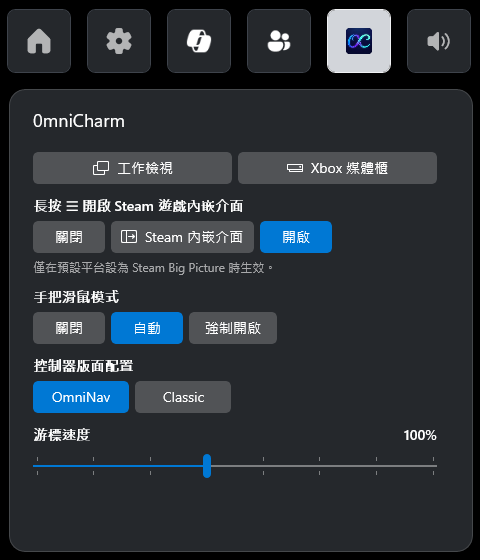
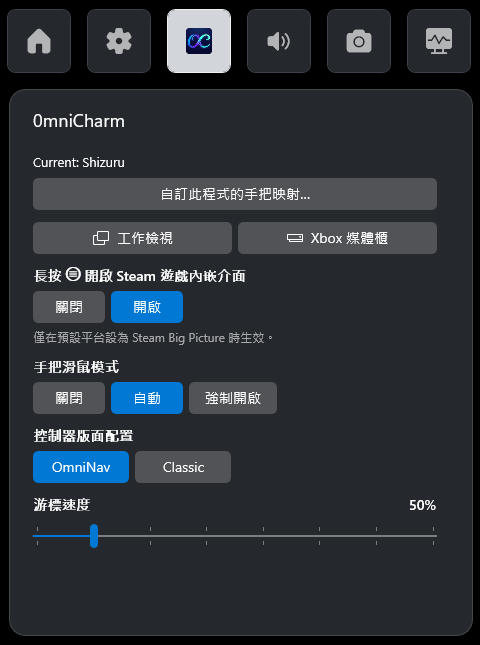
chore: Bump site version to 0.5.0, add Nekomata feature, refine terminology and troubleshooting details

Changed region(s): [[0.0, 0.0, 1.0, 0.7893], [0.0625, 0.7893, 0.9062, 0.85], [0.8438, 0.7589, 0.9062, 0.7893]]

diff --git a/src/pages/docs/troubleshooting.md b/src/pages/docs/troubleshooting.md
@@ -1,20 +1,20 @@
 ---
 layout: ../../layouts/DocsLayout.astro
 title: Troubleshooting
-description: Recover from FSE issues on Windows 11.
+description: Recover from Xbox Mode (FSE) issues on Windows 11.
 ---
 
-## FSE entry dialog does not appear
+## Xbox Mode (FSE) entry dialog does not appear
 
-On some Windows builds the FSE entry dialog ("Restart for better performance") fails to appear. OmniConsole provides an emergency bypass:
+On some Windows builds the "Restart for better performance" dialog fails to appear when entering Xbox Mode (FSE). OmniConsole provides a recovery action:
 
 1. Open **OmniConsole Settings** from the Start Menu.
 2. Switch to the **Troubleshoot** tab in the left menu.
-3. Next to **Terminate Game Bar & Enter FSE**, click **Run**. This force-closes Game Bar and enters FSE directly, bypassing the confirmation dialog. Some Windows builds may still show a confirmation dialog.
+3. Next to **Restart Game Bar & Enter Xbox Mode (FSE)**, click **Run**. This restarts Game Bar and enters Xbox Mode (FSE); once Game Bar is restarted, the dialog appears as expected.
 
 ## OmniConsole does not launch my platform
 
-1. Confirm OmniConsole is set as the **FSE Home App** in **Settings → Gaming → Full Screen Experience**.
+1. Confirm OmniConsole is set as the **Xbox Mode (FSE) Home App** in **Settings → Gaming → Xbox Mode (FSE)**.
 2. Open **OmniConsole Settings** from the Start Menu and verify your default platform is selected.
 3. Make sure the selected platform is installed. Steam Big Picture requires Steam; Xbox App requires the Xbox app, etc.
 

diff --git a/src/pages/zh-CN/docs/install.md b/src/pages/zh-CN/docs/install.md
@@ -37,16 +37,16 @@ OmniConsole 会在**首次启动**或**应用程序更新后**弹出设置界面
    - Playnite Fullscreen
 3. 按 **B 键**或单击**退出**即可，选择会自动保存。
 
-## 4. [重要] 设为 FSE 主页应用
+## 4. [重要] 设为 Xbox 模式 (FSE) 主应用
 
-1. 前往 **Windows 设置 → 游戏 → 全屏体验**。
-2. 将“选择主页应用”设为 **OmniConsole**。
-3. 启用”**启动时进入全屏体验**”。
+1. 前往 **Windows 设置 → 游戏 → Xbox 模式 (FSE)**。
+2. 将“选择主应用”设为 **OmniConsole**。
+3. 启用”**启动时进入 Xbox 模式 (FSE)**”。
 
 ## 5. 完成
 
 你的游戏平台现在可通过以下任一方式启动：
 
-- **开机** — 开机自动进入配置的平台（需启用”启动时进入全屏体验”）。
+- **开机** — 开机自动进入配置的平台（需启用”启动时进入 Xbox 模式 (FSE)”）。
 - **Xbox 键** — 打开 Game Bar，选”**主页**”启动平台，或选”**库**”打开 OmniConsole 设置。
 - **开始菜单** — 从桌面启动 OmniConsole，自动触发 FSE 后再启动平台。

diff --git a/src/pages/zh-CN/docs/troubleshooting.md b/src/pages/zh-CN/docs/troubleshooting.md
@@ -1,20 +1,20 @@
 ---
 layout: ../../../layouts/DocsLayout.astro
 title: 疑难解答
-description: 在 Windows 11 上排除 FSE 问题。
+description: 在 Windows 11 上排除 Xbox 模式 (FSE) 问题。
 ---
 
-## FSE 进入对话框未出现
+## Xbox 模式 (FSE) 进入对话框未出现
 
-部分 Windows 版本因本身的 Bug，全屏体验 （FSE） 进入对话框（“重启以提高性能”）迟迟不会出现。OmniConsole 提供紧急绕过方式：
+部分 Windows 版本因本身的 Bug，进入 Xbox 模式 (FSE) 时“重启以提高性能”对话框迟迟不会出现。OmniConsole 提供修复方式：
 
 1. 从开始菜单开启 **OmniConsole 设置**。
 2. 通过左侧菜单切换至 **疑难解答** 页面。
-3. 在 **”结束 Game Bar 并进入 FSE”** 旁单击 **”执行”** 按钮，将结束 Game Bar 并绕过 FSE 确认对话框，直接进入 FSE。部分 Windows 版本仍可能显示确认对话框。
+3. 在 **“重启 Game Bar 并进入 Xbox 模式 (FSE)”** 旁单击 **“执行”** 按钮。这会重启 Game Bar 并进入 Xbox 模式 (FSE)；Game Bar 重启后，对话框就会正常出现。
 
 ## OmniConsole 无法启动我的平台
 
-1. 确认 OmniConsole 已于 **设置 → 游戏 → 全屏体验** 设为 **FSE 主页应用**。
+1. 确认 OmniConsole 已于 **设置 → 游戏 → Xbox 模式 (FSE)** 设为 **Xbox 模式 (FSE) 主应用**。
 2. 从开始菜单开启 **OmniConsole 设置**，确认已选取默认平台。
 3. 确认所选平台已安装。Steam Big Picture 需要 Steam，Xbox App 需要 Xbox 应用等。
 

diff --git a/src/pages/zh-TW/docs/install.md b/src/pages/zh-TW/docs/install.md
@@ -37,16 +37,16 @@ OmniConsole 會在**首次啟動**或**應用程式更新後**彈出設定介面
    - Playnite Fullscreen
 3. 按 **B 鍵**或點選**退出**即可，選擇會自動儲存。
 
-## 4. [重要] 設為 FSE 首頁應用程式
+## 4. [重要] 設為 Xbox 模式 (FSE) 主畫面應用程式
 
-1. 前往 **Windows 設定 → 遊戲 → 全螢幕體驗**。
-2. 將「選擇首頁應用程式」設為 **OmniConsole**。
-3. 啟用「**啟動時進入全螢幕體驗**」。
+1. 前往 **Windows 設定 → 遊戲 → Xbox 模式 (FSE)**。
+2. 將「選擇主畫面應用程式」設為 **OmniConsole**。
+3. 啟用「**啟動時進入 Xbox 模式 (FSE)**」。
 
 ## 5. 完成
 
 你的遊戲平台現在可透過以下任一方式啟動：
 
-- **開機** — 開機自動進入設定的平台（需啟用「啟動時進入全螢幕體驗」）。
+- **開機** — 開機自動進入設定的平台（需啟用「啟動時進入 Xbox 模式 (FSE)」）。
 - **Xbox 鍵** — 開啟 Game Bar，選「**首頁**」啟動平台，或選「**媒體櫃**」開啟 OmniConsole 設定。
 - **開始功能表** — 從桌面啟動 OmniConsole，自動觸發 FSE 後再啟動平台。

diff --git a/src/pages/zh-TW/docs/troubleshooting.md b/src/pages/zh-TW/docs/troubleshooting.md
@@ -1,20 +1,20 @@
 ---
 layout: ../../../layouts/DocsLayout.astro
 title: 疑難排解
-description: 在 Windows 11 上排除 FSE 問題。
+description: 在 Windows 11 上排除 Xbox 模式 (FSE) 問題。
 ---
 
-## FSE 進入對話方塊未出現
+## Xbox 模式 (FSE) 進入對話方塊未出現
 
-部分 Windows 版本因本身的 Bug，全螢幕體驗 （FSE） 進入對話方塊（「重新啟動以提升效能」）遲遲不會出現。OmniConsole 提供緊急繞過方式：
+部分 Windows 版本因本身的 Bug，進入 Xbox 模式 (FSE) 時「重新啟動以提升效能」對話方塊遲遲不會出現。OmniConsole 提供修復方式：
 
 1. 從開始功能表開啟 **OmniConsole 設定**。
 2. 透過左側選單切換至 **疑難排解** 頁面。
-3. 在 **「結束 Game Bar 並進入 FSE」** 旁點選 **「執行」** 按鈕，將結束 Game Bar 並繞過 FSE 確認對話方塊，直接進入 FSE。部分 Windows 版本仍可能顯示確認對話方塊。
+3. 在 **「重啟 Game Bar 並進入 Xbox 模式 (FSE)」** 旁點選 **「執行」** 按鈕。這會重啟 Game Bar 並進入 Xbox 模式 (FSE)；Game Bar 重啟後，對話方塊就會正常出現。
 
 ## OmniConsole 無法啟動我的平台
 
-1. 確認 OmniConsole 已於 **設定 → 遊戲 → 全螢幕體驗** 設為 **FSE 首頁應用程式**。
+1. 確認 OmniConsole 已於 **設定 → 遊戲 → Xbox 模式 (FSE)** 設為 **Xbox 模式 (FSE) 主畫面應用程式**。
 2. 從開始功能表開啟 **OmniConsole 設定**，確認已選取預設平台。
 3. 確認所選平台已安裝。Steam Big Picture 需要 Steam，Xbox App 需要 Xbox 應用程式等。
 

diff --git a/src/content/features/en/nekomata-mapping.md b/src/content/features/en/nekomata-mapping.md
@@ -1,0 +1,9 @@
+---
+title: Nekomata — Custom Per-App Gamepad Mapping
+icon: lucide:wand-2
+category: gamepad
+order: 14
+locale: en
+---
+
+Nekomata weaves a charm for each app, remapping every XInput input (A/B/X/Y, LB/RB, LT/RT, LS/RS, D-pad, both sticks) to a keyboard key, modifier combo, mouse button, scroll wheel, cursor movement, scrolling, arrow keys, or WASD. Open the editor from the OmniCharm widget's "Customize gamepad mapping for this app…" button.

diff --git a/src/content/features/zh-CN/nekomata-mapping.md b/src/content/features/zh-CN/nekomata-mapping.md
@@ -1,0 +1,9 @@
+---
+title: 猫又 — 自定义各应用手柄映射
+icon: lucide:wand-2
+category: gamepad
+order: 14
+locale: zh-CN
+---
+
+猫又为每个应用编一道咒，将所有 XInput 输入位（A/B/X/Y、LB/RB、LT/RT、LS/RS、十字键、双摇杆）重新映射为键盘按键、修饰键组合、鼠标按键、滚轮、光标移动、滚动、方向键或 WASD。从 OmniCharm 小组件的“自定义此应用的手柄映射…”按钮进入编辑器。

diff --git a/src/content/features/zh-TW/nekomata-mapping.md b/src/content/features/zh-TW/nekomata-mapping.md
@@ -1,0 +1,9 @@
+---
+title: 貓又 — 自訂各程式手把映射
+icon: lucide:wand-2
+category: gamepad
+order: 14
+locale: zh-TW
+---
+
+貓又為每個程式編一道咒，將所有 XInput 輸入位（A/B/X/Y、LB/RB、LT/RT、LS/RS、十字鍵、雙搖桿）重新映射為鍵盤按鍵、修飾鍵組合、滑鼠按鍵、滾輪、游標移動、捲動、方向鍵或 WASD。從 OmniCharm 小工具的「自訂此程式的手把映射…」按鈕進入編輯器。

diff --git a/src/pages/docs/faq.md b/src/pages/docs/faq.md
@@ -10,15 +10,15 @@ OmniConsole is licensed under [**PolyForm Noncommercial 1.0.0**](https://github.
 
 ## Does OmniConsole replace the Xbox App?
 
-No. OmniConsole registers as the **FSE Home App** using the official Windows API — the same mechanism Microsoft uses for the Xbox App. The Xbox App continues to work normally as a Windows app, and you can still set it as your launch target inside OmniConsole.
+No. OmniConsole registers as the **Xbox Mode (FSE) Home App** using the official Windows API — the same mechanism Microsoft uses for the Xbox App. The Xbox App continues to work normally as a Windows app, and you can still set it as your launch target inside OmniConsole.
 
 ## Do I need to be on a handheld?
 
-No. OmniConsole runs on any Windows 11 PC. Desktops, laptops, and tablets use [**XFSET**](https://github.com/8bit2qubit/XboxFullScreenExperienceTool) to enable FSE first; native handhelds (ROG Xbox Ally, etc.) support FSE out of the box.
+No. OmniConsole runs on any Windows 11 PC. Desktops, laptops, and tablets use [**XFSET**](https://github.com/8bit2qubit/XboxFullScreenExperienceTool) to enable Xbox Mode (FSE) first; native handhelds (ROG Xbox Ally X, etc.) support Xbox Mode (FSE) out of the box.
 
 ## Do I need an Xbox controller?
 
-Windows 11 Game Bar, FSE navigation, and the Xbox button flow all require an **XInput-compatible controller with an Xbox button**.
+Windows 11 Game Bar, Xbox Mode (FSE) navigation, and the Xbox button flow all require an **XInput-compatible controller with an Xbox button**.
 
 ## Can I add my own platform?
 
@@ -30,7 +30,7 @@ Yes — OmniConsole checks for GitHub releases and can download and install upda
 
 ## How do I uninstall safely?
 
-Always change the FSE Home App to **Xbox** or **None** *before* uninstalling. See [How to Revert](/omniconsole-site/docs/revert).
+Always change the Xbox Mode (FSE) Home App to **Xbox** or **None** *before* uninstalling. See [How to Revert](/omniconsole-site/docs/revert).
 
 ## Where can I report bugs?
 

diff --git a/src/pages/docs/install.md b/src/pages/docs/install.md
@@ -39,14 +39,14 @@ OmniConsole shows its Settings UI on **first launch** and **after updates**. You
 
 ## 4. [Critical] Set as FSE Home App
 
-1. Open **Settings → Gaming → Full Screen Experience**.
+1. Open **Settings → Gaming → Xbox Mode (FSE)**.
 2. Set **Choose home app** to **OmniConsole**.
-3. Enable **Enter full screen experience on startup**.
+3. Enable **Enter Xbox mode (FSE) on startup**.
 
 ## 5. Done
 
 Your gaming platform now launches via any of these entry points:
 
-- **Boot** — auto-launches into your configured platform (requires "Enter full screen experience on startup" enabled).
+- **Boot** — auto-launches into your configured platform (requires "Enter Xbox mode (FSE) on startup" enabled).
 - **Xbox button** — open Game Bar, pick **Home** to launch your platform, or **Library** to open OmniConsole settings.
 - **Start Menu** — launch OmniConsole from the desktop; FSE is triggered automatically before the platform starts.